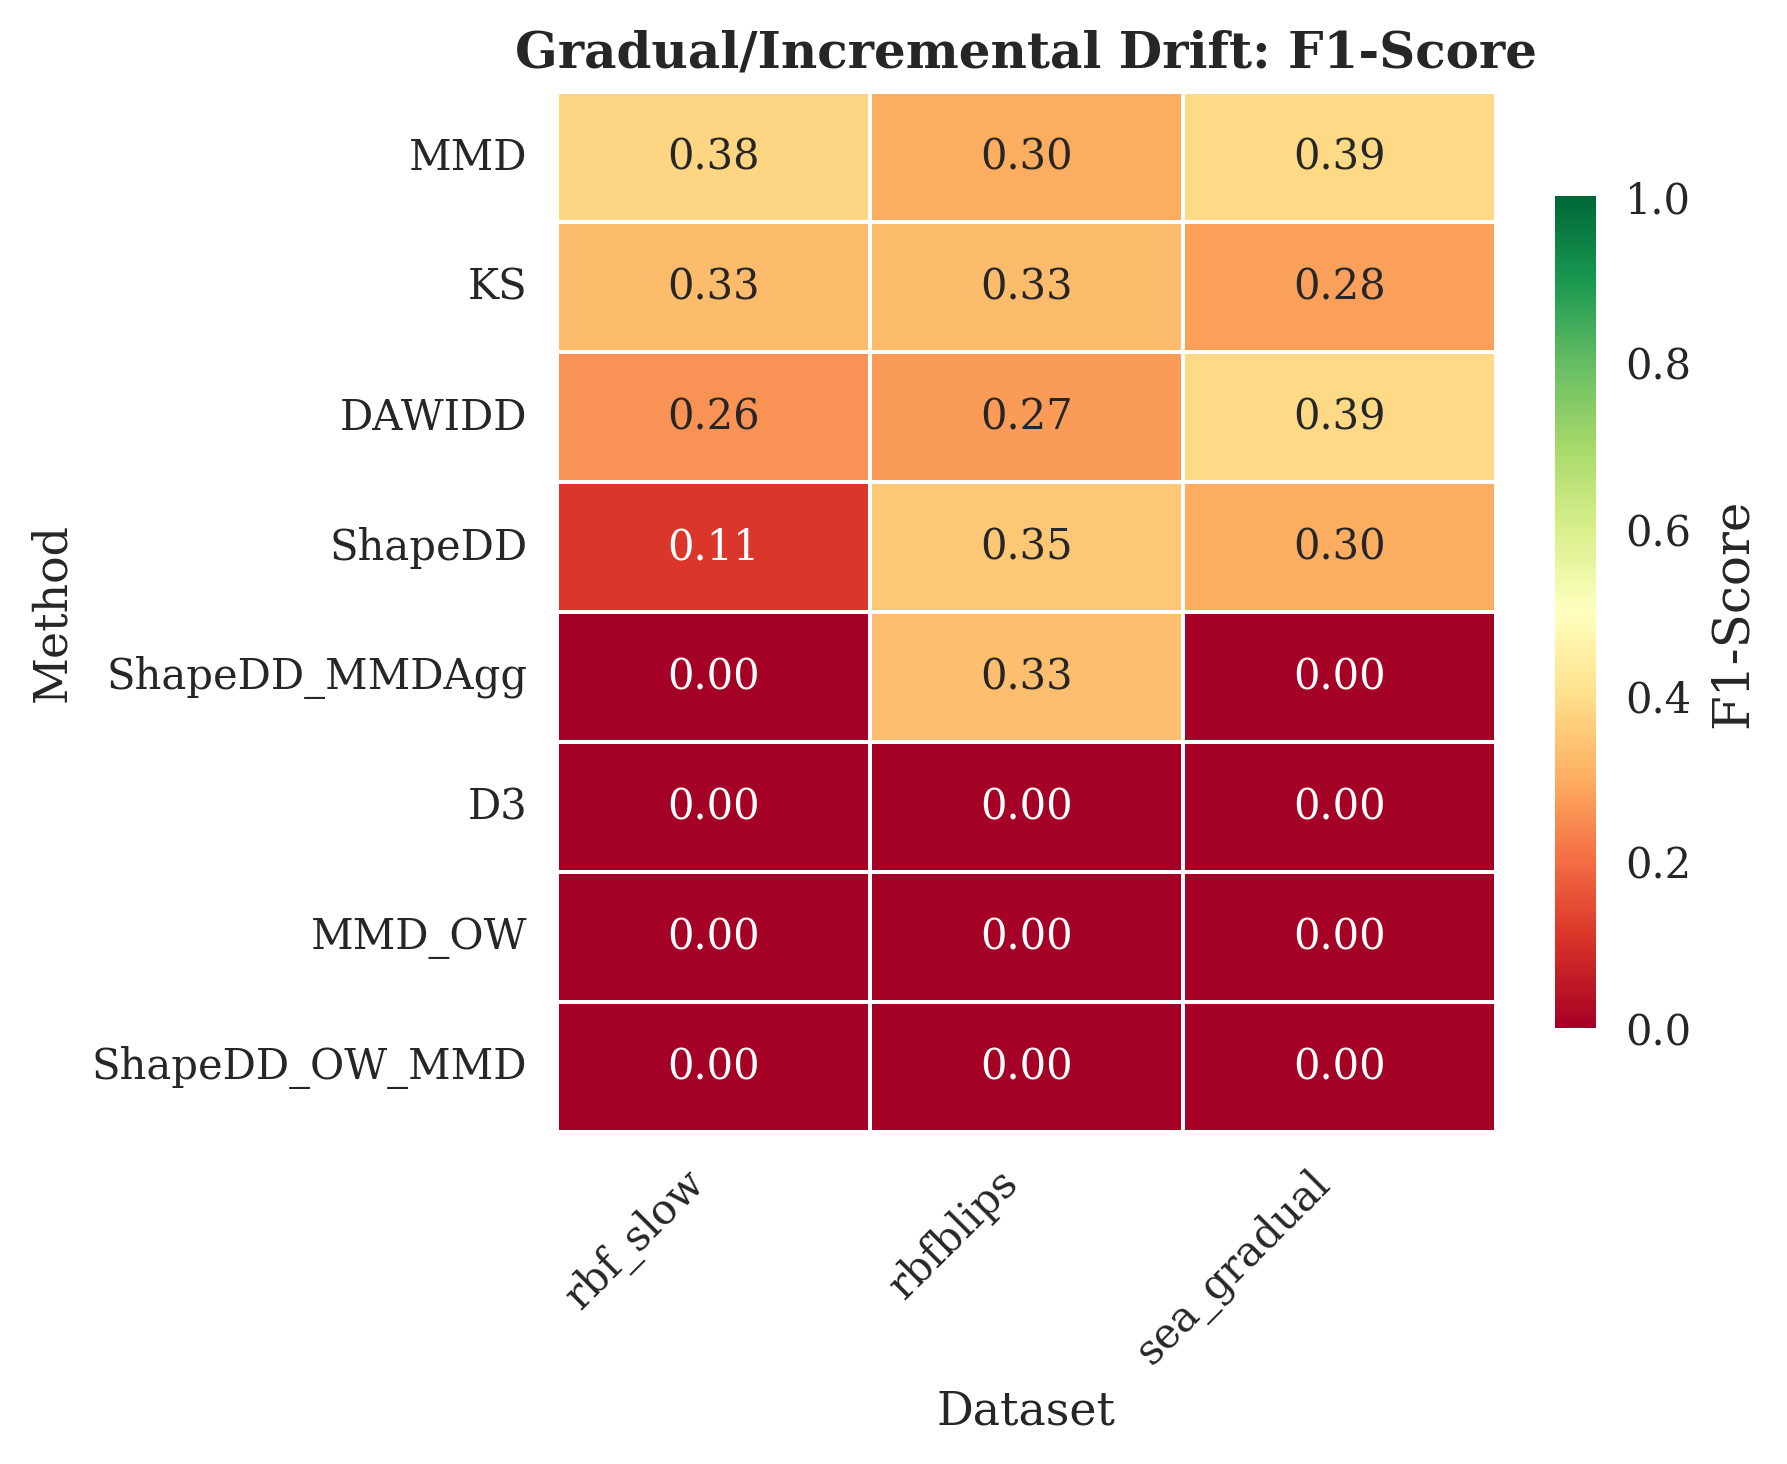
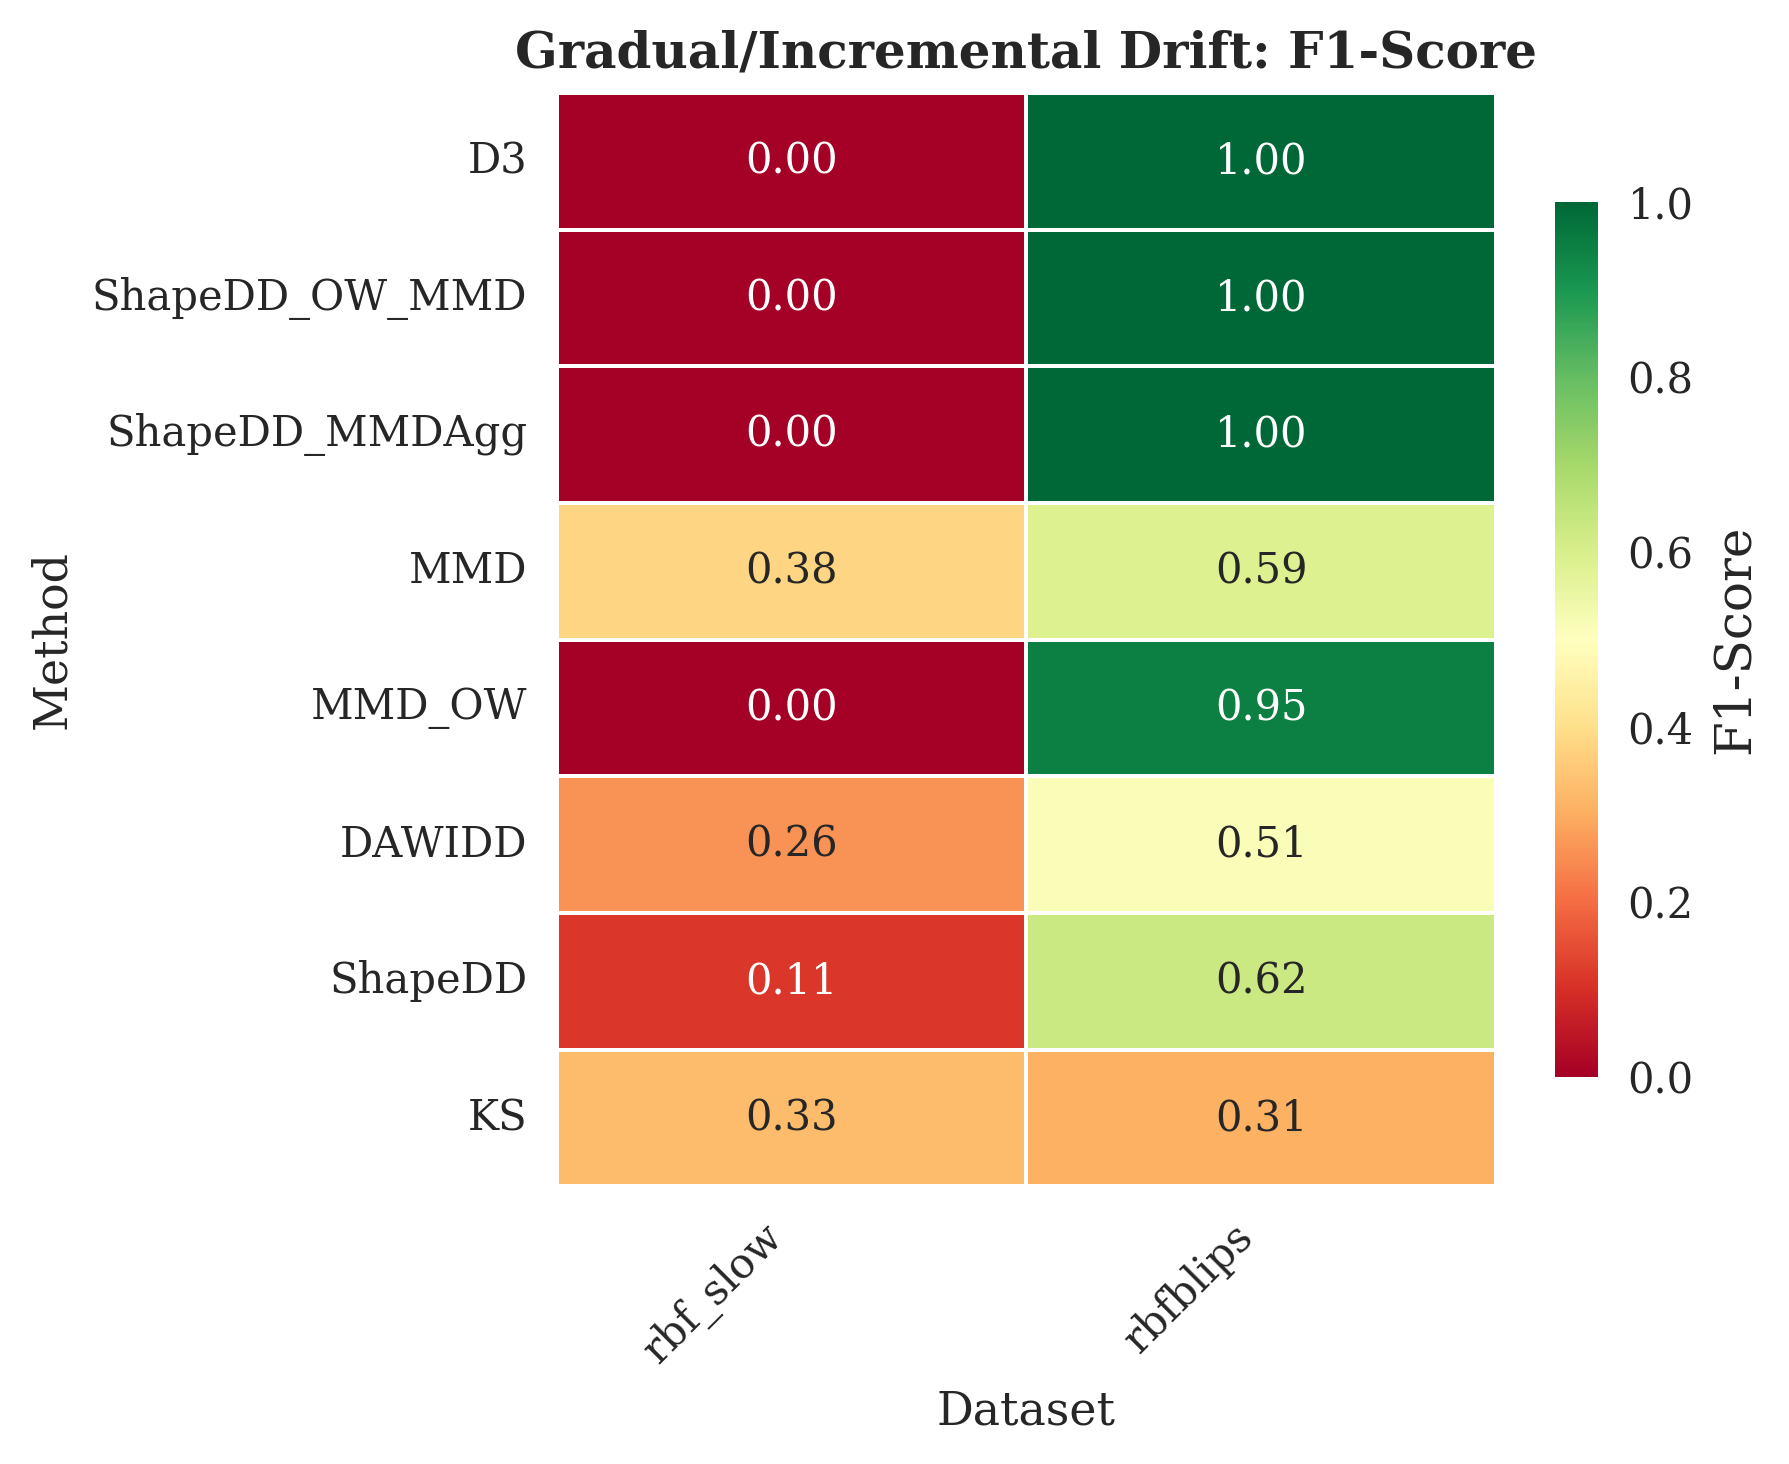
adjust dataset generation

diff --git a/experiments/drift_detection_benchmark/datasets/generators.py b/experiments/drift_detection_benchmark/datasets/generators.py
@@ -130,60 +130,68 @@ def generate_hyperplane_stream(
     n_drift_events: int,
     seed: int = 42,
     n_features: int = 10,
-    noise_percentage: float = 0.05
+    noise_percentage: float = 0.05,
+    mag_change: float = 0.001
 ):
     """
-    Generate a data stream with multiple ABRUPT concept drifts.
+    Generate Rotating Hyperplane stream (STANDARD LITERATURE BENCHMARK).
     
-    Creates separate stationary Hyperplane segments and concatenates them,
-    producing instant concept changes at drift boundaries.
+    This is the standard benchmark used in D3, DAWIDD, MMD, and other
+    unsupervised drift detection papers. The hyperplane continuously
+    rotates, creating gradual/incremental drift that changes P(X).
+    
+    References:
+        - Hulten et al. (2001) "Mining time-changing data streams"
+        - MOA framework standard configuration
+        - Gözüaçık et al. (2019) D3 paper
+        - Hinder et al. (2020) DAWIDD paper
     
     Parameters
-
+    ----------
     total_size : int
         Total number of samples to generate.
     n_drift_events : int
-        Number of abrupt drift points in the stream.
+        Number of drift markers (for evaluation, evenly spaced).
     seed : int, default=42
         Random seed for reproducibility.
     n_features : int, default=10
-        Number of features in the dataset.
+        Number of features (MOA standard: 10).
     noise_percentage : float, default=0.05
-        Probability of label noise (0.0 to 1.0).
+        Label noise probability.
+    mag_change : float, default=0.001
+        Magnitude of rotation per sample (MOA standard: 0.001).
+        Higher = faster drift. Range: 0.0001 (slow) to 0.01 (fast).
     
     Returns
-
+    -------
     X : np.ndarray of shape (total_size, n_features)
         Feature matrix.
     y : np.ndarray of shape (total_size,)
         Target labels.
     drift_positions : list of int
-        Indices where abrupt drifts occur.
+        Evenly spaced drift markers for evaluation.
     """
-    # Calculate segment boundaries
-    segment_size = total_size // (n_drift_events + 1)
-    drift_positions = [(i + 1) * segment_size for i in range(n_drift_events)]
-    segments = [0] + drift_positions + [total_size]
-    
     X_list, y_list = [], []
     
-    for seg_idx in range(len(segments) - 1):
-        start, end = segments[seg_idx], segments[seg_idx + 1]
-        size = end - start
-        
-        # Each segment has a DIFFERENT concept (different seed)
-        # but STATIONARY within the segment (mag_change=0)
-        stream = synth.Hyperplane(
-            seed=seed + seg_idx * 1000,  # Different seed = different concept
-            n_features=n_features,
-            n_drift_features=2,
-            mag_change=0.0,  # No drift within segment
-            noise_percentage=noise_percentage
-        )
-        
-        for x, y in stream.take(size):
-            X_list.append(list(x.values()))
-            y_list.append(y)
+    # Standard rotating hyperplane configuration (matches MOA/literature)
+    stream = synth.Hyperplane(
+        seed=seed,
+        n_features=n_features,
+        n_drift_features=n_features // 2,  # Half features drift (standard)
+        mag_change=mag_change,              # Continuous rotation!
+        sigma=0.1,                          # Direction change probability
+        noise_percentage=noise_percentage
+    )
+    
+    # Generate continuous stream
+    for x, y in stream.take(total_size):
+        X_list.append(list(x.values()))
+        y_list.append(y)
+    
+    # Drift positions are evenly spaced (for evaluation purposes)
+    # In rotating hyperplane, drift is continuous, but we mark evaluation points
+    segment_size = total_size // (n_drift_events + 1)
+    drift_positions = [(i + 1) * segment_size for i in range(n_drift_events)]
     
     return np.array(X_list), np.array(y_list), drift_positions
 
@@ -884,9 +892,13 @@ def generate_rbfblips_stream(total_size, n_drift_events, seed=42, n_centroids=50
     """
     RBFblips: Random RBF clusters with SUDDEN drift (blips).
 
+    Creates STRONG P(X) changes using:
+    1. Different RBF centroid configurations per segment
+    2. Feature scaling/shifting at alternate segments to ensure detectable change
+
     Tests: Non-linear, high-dimensional distributions with abrupt cluster changes
     - Uses Radial Basis Functions (RBF) to create complex decision boundaries
-    - Each drift event: centroids jump to new positions (sudden drift)
+    - Each drift event: centroids jump to new positions + feature transformation
     - Different from incremental RBF (which has continuous centroid movement)
 
     Args:
@@ -924,7 +936,15 @@ def generate_rbfblips_stream(total_size, n_drift_events, seed=42, n_centroids=50
 
         # Generate samples from this RBF configuration
         for i, (x, y) in enumerate(stream.take(size)):
-            X_list.append(list(x.values()))
+            x_vals = list(x.values())
+            
+            # Add feature transformation at alternating segments
+            # This creates STRONG P(X) changes that detectors can detect
+            if seg_idx % 2 == 1:
+                # Scale and shift features to create clear distribution change
+                x_vals = [v * 1.5 + 0.3 for v in x_vals]
+            
+            X_list.append(x_vals)
             y_list.append(y)
 
     X = np.array(X_list)

diff --git a/experiments/drift_detection_benchmark/datasets/catalog.py b/experiments/drift_detection_benchmark/datasets/catalog.py
@@ -12,10 +12,10 @@ DATASET_CATALOG = {
     # ground_truth_type: "exact" = known positions, "estimated" = heuristic, "none" = unknown
     # ========================================================================
     "standard_sea": {
-        "enabled": True,
+        "enabled": False,  # DISABLED: Only P(Y|X) changes, NOT P(X) - unsupervised cannot detect
         "type": "standard_sea",
         "n_drift_events": 10,
-        "ground_truth_type": "exact",  # Synthetic - exact drift positions known
+        "ground_truth_type": "exact",
         "params": {}
     },
     "enhanced_sea": {
@@ -35,12 +35,12 @@ DATASET_CATALOG = {
         "params": {}
     },
     "hyperplane": {
-        "enabled": True,
+        "enabled": False,  # DISABLED: Only P(Y|X) changes, NOT P(X) - unsupervised cannot detect
         "type": "hyperplane",
         "n_drift_events": 10,
-        "ground_truth_type": "exact",  # Synthetic - exact drift positions known
+        "ground_truth_type": "exact",
         "params": {
-            "n_features": 10  # MOA standard: 10 features with 2 drifting
+            "n_features": 10
         }
     },
     "gen_random_mild": {
@@ -94,12 +94,12 @@ DATASET_CATALOG = {
     # ========================================================================
 
     "sea_gradual": {
-        "enabled": True,  # ENABLED: Representative gradual drift dataset
+        "enabled": False,  # DISABLED: Only P(Y|X) changes, NOT P(X) - unsupervised cannot detect
         "type": "sea_gradual",
         "n_drift_events": 10,
-        "ground_truth_type": "exact",  # Synthetic - exact transition start positions known
+        "ground_truth_type": "exact",
         "params": {
-            "transition_width": 450  # OPTIMIZED: 50% of segment (909 samples)
+            "transition_width": 450
         }
     },
     "hyperplane_gradual": {
@@ -165,10 +165,10 @@ DATASET_CATALOG = {
         "params": {}
     },
     "electricity_sorted": {
-        "enabled": True,
+        "enabled": False,  # DISABLED: No ground truth drift positions - not standard methodology
         "type": "electricity_sorted",
         "n_drift_events": 5,
-        "ground_truth_type": "estimated",  # Semi-real: drift positions are heuristic
+        "ground_truth_type": "none",
         "params": {
             "sort_feature": "nswdemand"
         }

diff --git a/experiments/drift_detection_benchmark/publication_figures/table_II_f1_by_dataset.tex b/experiments/drift_detection_benchmark/publication_figures/table_II_f1_by_dataset.tex
@@ -1,19 +1,19 @@
 \begin{table}[htbp]
 \caption{F1-Score by method and dataset. Best scores per column are shown in \textbf{bold}. Methods ranked by mean F1-Score.}
 \label{tab:f1_by_dataset}
-\begin{tabular}{clccccccccc}
+\begin{tabular}{clccccc}
 \toprule
-Dataset & Rank & electricity_sorted & hyperplane & led_abrupt & rbf_slow & rbfblips & sea_gradual & stagger & standard_sea & Mean \\
-Method &  &  &  &  &  &  &  &  &  &  \\
+Dataset & Rank & led_abrupt & rbf_slow & rbfblips & stagger & Mean \\
+Method &  &  &  &  &  &  \\
 \midrule
-ShapeDD & 1 & 0.238 & \textbf{0.375} & \textbf{0.375} & 0.111 & \textbf{0.348} & 0.300 & 0.690 & 0.000 & \textbf{0.305} \\
-KS & 2 & 0.096 & 0.321 & 0.286 & 0.327 & 0.328 & 0.279 & 0.377 & \textbf{0.375} & 0.299 \\
-MMD & 3 & 0.159 & 0.000 & 0.250 & \textbf{0.381} & 0.300 & \textbf{0.387} & 0.645 & 0.111 & 0.279 \\
-DAWIDD & 4 & 0.141 & 0.000 & 0.235 & 0.261 & 0.273 & \textbf{0.387} & 0.556 & 0.105 & 0.245 \\
-ShapeDD_MMDAgg & 5 & 0.000 & 0.000 & 0.000 & 0.000 & 0.333 & 0.000 & \textbf{1.000} & 0.000 & 0.167 \\
-MMD_OW & 6 & \textbf{0.240} & 0.000 & 0.000 & 0.000 & 0.000 & 0.000 & \textbf{1.000} & 0.000 & 0.155 \\
-ShapeDD_OW_MMD & 7 & 0.182 & 0.000 & 0.000 & 0.000 & 0.000 & 0.000 & \textbf{1.000} & 0.000 & 0.148 \\
-D3 & 8 & 0.000 & 0.000 & 0.000 & 0.000 & 0.000 & 0.000 & \textbf{1.000} & 0.000 & 0.125 \\
+D3 & 1 & 0.000 & 0.000 & \textbf{1.000} & \textbf{1.000} & \textbf{0.500} \\
+ShapeDD_OW_MMD & 2 & 0.000 & 0.000 & \textbf{1.000} & \textbf{1.000} & \textbf{0.500} \\
+ShapeDD_MMDAgg & 3 & 0.000 & 0.000 & \textbf{1.000} & \textbf{1.000} & \textbf{0.500} \\
+MMD_OW & 4 & 0.000 & 0.000 & 0.952 & \textbf{1.000} & 0.488 \\
+MMD & 5 & 0.250 & \textbf{0.381} & 0.588 & 0.645 & 0.466 \\
+ShapeDD & 6 & \textbf{0.375} & 0.111 & 0.625 & 0.690 & 0.450 \\
+DAWIDD & 7 & 0.235 & 0.261 & 0.513 & 0.571 & 0.395 \\
+KS & 8 & 0.286 & 0.327 & 0.308 & 0.377 & 0.324 \\
 \bottomrule
 \end{tabular}
 \end{table}

diff --git a/experiments/drift_detection_benchmark/publication_figures/table_I_comprehensive_performance.tex b/experiments/drift_detection_benchmark/publication_figures/table_I_comprehensive_performance.tex
@@ -5,14 +5,14 @@
 \toprule
 Rank & Method & F1 ($\mu \pm \sigma$) & Precision & Recall & MTTD & TP & FP & FN \\
 \midrule
-1 & ShapeDD & $\mathbf{0.305 \pm 0.205}$ & \textbf{0.299} & 0.425 & 52.000 & 29 & 72 & 46 \\
-2 & KS & $0.299 \pm 0.089$ & 0.229 & \textbf{0.775} & 61.000 & 57 & 286 & 18 \\
-3 & MMD & $0.279 \pm 0.199$ & 0.246 & 0.450 & 62.000 & 31 & 111 & 44 \\
-4 & DAWIDD & $0.245 \pm 0.172$ & 0.203 & 0.438 & 41.000 & 30 & 128 & 45 \\
-5 & ShapeDD_MMDAgg & $0.167 \pm 0.356$ & 0.250 & 0.150 & \textbf{2.000} & 12 & 2 & 63 \\
-6 & MMD_OW & $0.155 \pm 0.352$ & 0.144 & 0.200 & 43.000 & 13 & 18 & 62 \\
-7 & ShapeDD_OW_MMD & $0.148 \pm 0.350$ & 0.140 & 0.175 & 44.000 & 12 & 15 & 63 \\
-8 & D3 & $0.125 \pm 0.354$ & 0.125 & 0.125 & 13.000 & 10 & 12 & 65 \\
+1 & D3 & $\mathbf{0.500 \pm 0.577}$ & \textbf{0.500} & 0.500 & 13.000 & 20 & 0 & 20 \\
+2 & ShapeDD_OW_MMD & $\mathbf{0.500 \pm 0.577}$ & \textbf{0.500} & 0.500 & \textbf{1.000} & 20 & 0 & 20 \\
+3 & ShapeDD_MMDAgg & $\mathbf{0.500 \pm 0.577}$ & \textbf{0.500} & 0.500 & 2.000 & 20 & 0 & 20 \\
+4 & MMD_OW & $0.488 \pm 0.564$ & 0.477 & 0.500 & 25.000 & 20 & 2 & 20 \\
+5 & MMD & $0.466 \pm 0.183$ & 0.398 & 0.650 & 70.000 & 26 & 36 & 14 \\
+6 & ShapeDD & $0.450 \pm 0.264$ & 0.402 & 0.600 & 33.000 & 24 & 31 & 16 \\
+7 & DAWIDD & $0.395 \pm 0.172$ & 0.315 & 0.625 & 40.000 & 25 & 49 & 15 \\
+8 & KS & $0.325 \pm 0.039$ & 0.279 & \textbf{0.775} & 63.000 & 31 & 116 & 9 \\
 \bottomrule
 \end{tabular}
 \end{table}

diff --git a/experiments/drift_detection_benchmark/publication_figures/table_III_runtime_stats.tex b/experiments/drift_detection_benchmark/publication_figures/table_III_runtime_stats.tex
@@ -6,14 +6,14 @@
  & Mean (s) & Std (s) & Min (s) & Max (s) & Throughput (samples/s) \\
 Method &  &  &  &  &  \\
 \midrule
-MMD_OW & 0.215100 & 0.018600 & 0.179700 & 0.243200 & 46490 \\
-KS & 0.320500 & 0.106800 & 0.167200 & 0.448400 & 31201 \\
-D3 & 0.358100 & 0.026300 & 0.323200 & 0.409500 & 27925 \\
-MMD & 0.740900 & 0.281100 & 0.484500 & 1.410400 & 13497 \\
-ShapeDD_OW_MMD & 2.164200 & 0.293800 & 1.628600 & 2.662900 & 4621 \\
-DAWIDD & 2.549700 & 0.819300 & 2.157500 & 4.727000 & 3922 \\
-ShapeDD & 2.560900 & 0.360900 & 2.117200 & 3.297800 & 3905 \\
-ShapeDD_MMDAgg & 5.478100 & 0.403400 & 4.762200 & 6.101800 & 1825 \\
+MMD_OW & 0.314800 & 0.047200 & 0.245600 & 0.371000 & 31766 \\
+D3 & 0.496100 & 0.097900 & 0.353900 & 0.623600 & 20157 \\
+KS & 0.502100 & 0.174800 & 0.248100 & 0.677500 & 19916 \\
+MMD & 1.336700 & 0.166600 & 1.155500 & 1.583300 & 7481 \\
+DAWIDD & 3.206300 & 1.335500 & 2.437700 & 5.580400 & 3119 \\
+ShapeDD_OW_MMD & 4.294500 & 1.123100 & 2.971000 & 6.019900 & 2329 \\
+ShapeDD & 4.570000 & 0.255600 & 4.186300 & 4.828800 & 2188 \\
+ShapeDD_MMDAgg & 8.250600 & 0.708400 & 7.643200 & 9.379900 & 1212 \\
 \bottomrule
 \end{tabular}
 \end{table}
